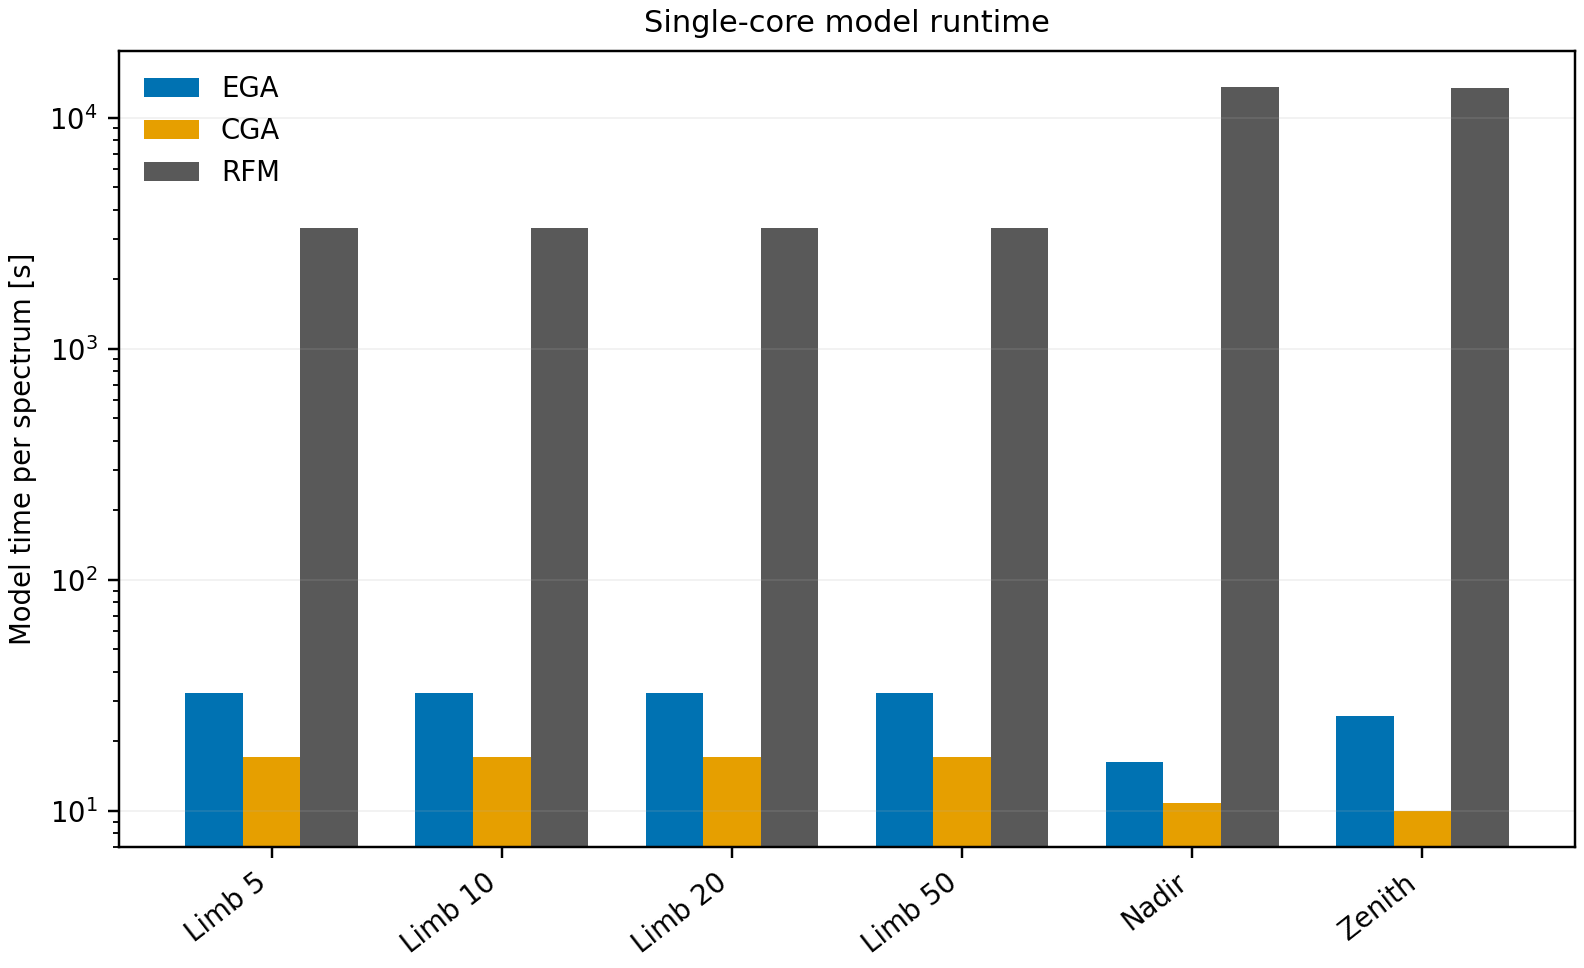
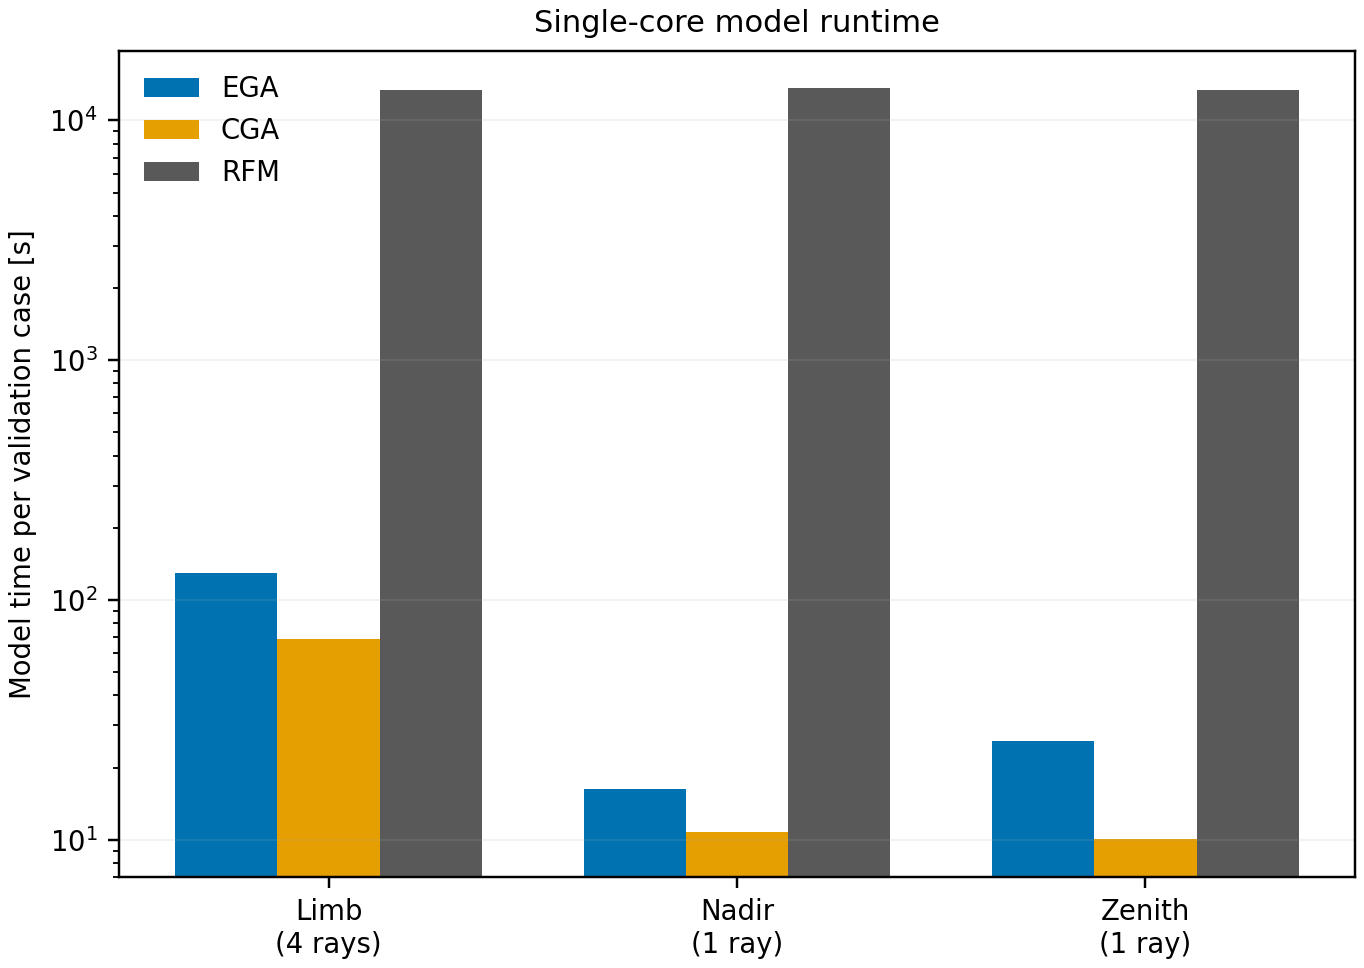
Document validation accuracy and timings.

diff --git a/projects/validation/analyze.py b/projects/validation/analyze.py
@@ -228,22 +228,23 @@ def plot_runtime_summary(root, output, plt):
                 timings[row["geometry"], method] = row
     with (root / "test_cga" / "timings.csv").open(newline="") as stream:
         cga_timings = {row["geometry"]: row for row in csv.DictReader(stream)}
-    cases = ("Limb 5", "Limb 10", "Limb 20", "Limb 50", "Nadir", "Zenith")
+    geometries = ("limb", "nadir", "zenith")
+    cases = ("Limb\n(4 rays)", "Nadir\n(1 ray)", "Zenith\n(1 ray)")
     x = list(range(len(cases)))
-    ega_time, cga_time, rfm_time = [], [], []
-    for index in x:
-        geometry = "limb" if index < 4 else cases[index].lower()
-        ega_time.append(float(timings[geometry, "ega"]["model_s_per_spectrum"]))
-        cga_time.append(float(cga_timings[geometry]["model_s_per_spectrum"]))
-        rfm_time.append(float(timings[geometry, "rfm"]["model_s_per_spectrum"]))
-    fig, ax = plt.subplots(figsize=(7.2, 4.4), constrained_layout=True)
+    ega_time = [float(timings[geometry, "ega"]["model_s"])
+                for geometry in geometries]
+    cga_time = [float(cga_timings[geometry]["model_s"])
+                for geometry in geometries]
+    rfm_time = [float(timings[geometry, "rfm"]["model_s"])
+                for geometry in geometries]
+    fig, ax = plt.subplots(figsize=(6.2, 4.4), constrained_layout=True)
     width = 0.25
     ax.bar([value - width for value in x], ega_time, width, label="EGA", color="#0072B2")
     ax.bar(x, cga_time, width, label="CGA", color="#E69F00")
     ax.bar([value + width for value in x], rfm_time, width, label="RFM", color="0.35")
     ax.set_yscale("log")
-    ax.set_xticks(x, cases, rotation=38, ha="right")
-    ax.set_ylabel("Model time per spectrum [s]")
+    ax.set_xticks(x, cases)
+    ax.set_ylabel("Model time per validation case [s]")
     ax.set_title("Single-core model runtime")
     ax.legend(frameon=False)
     ax.grid(axis="y", alpha=0.2, lw=0.5)
@@ -256,12 +257,16 @@ def write_report(root, metrics, output):
     with (root / "rfm_reference" / "manifest.json").open() as stream:
         manifest = json.load(stream)
 
+    hardware = manifest.get("hardware", {})
+    affinity = hardware.get("process_affinity_logical_cpus", [])
+    affinity_text = ", ".join(str(cpu) for cpu in affinity) if affinity else "not recorded"
+
     timings = {}
     for method, directory in (("EGA", "test_ega"), ("CGA", "test_cga"),
                               ("RFM", "rfm_reference")):
         with (root / directory / "timings.csv").open(newline="") as stream:
             for row in csv.DictReader(stream):
-                timings[row["geometry"], method] = float(row["model_s_per_spectrum"])
+                timings[row["geometry"], method] = float(row["model_s"])
 
     lines = [
         "# JURASSIC–RFM validation report",
@@ -285,6 +290,35 @@ def write_report(root, metrics, output):
         "JURASSIC. Limb errors are relative radiance errors. Nadir and zenith errors",
         "are absolute brightness temperature errors. All limb channels are included;",
         "only an exactly zero RFM radiance would have an undefined relative error.",
+        "",
+        "## Interpretation of the approximation errors",
+        "",
+        "JURASSIC replaces monochromatic radiative transfer by channel-averaged",
+        "emissivities and Planck functions. EGA follows emissivity growth along an",
+        "inhomogeneous ray path, whereas CGA replaces that path by an equivalent",
+        "homogeneous path. Both remain band approximations: correlations between the",
+        "spectral variation of the Planck function and emissivity along the path are",
+        "not represented exactly. In addition, JURASSIC combines the channel-mean",
+        "transmissions of individual gases multiplicatively. This neglects spectral",
+        "correlation terms between overlapping absorption structures of different",
+        "gases. These mechanisms are described for JURASSIC by",
+        "[Baumeister and Hoffmann (2022)](https://doi.org/10.5194/gmd-15-1855-2022).",
+        "",
+        "The largest errors below occur in individual channels and should be read",
+        "together with the median and 95th-percentile statistics. Published accuracies",
+        "are specific to their setup: Gordley and Russell (1981) reported about 0.5%",
+        "for a single-gas, approximately 100 cm^-1 broadband limb calculation, while",
+        "Francis et al. (2006) reported channel-dependent radiance accuracies of",
+        "0.5-1.0% or better for the 21-channel HIRDLS fast model, which combined CGA,",
+        "EGA, and statistical regression. Neither result is a universal bound for the",
+        "present 1 cm^-1, 36-gas calculation. Errors depend on spectral interval,",
+        "channel response, atmospheric state, gas overlap, and viewing geometry.",
+        "Consequently, each instrument or application requires its own line-by-line",
+        "validation with the applicable spectral response functions.",
+        "",
+        "References: [Gordley and Russell (1981)](https://doi.org/10.1364/AO.20.000807);",
+        "[Marshall et al. (1994)](https://doi.org/10.1016/0022-4073(94)90026-4);",
+        "[Francis et al. (2006)](https://doi.org/10.1029/2005JD006270).",
         "",
         "## Limb spectra and errors",
         "",
@@ -331,11 +365,21 @@ def write_report(root, metrics, output):
         "",
         "![Single-core model runtime](runtime_summary.png)",
         "",
+        "Reference timing hardware and execution:",
+        "",
+        f"- Processor: {hardware.get('cpu_model', 'not recorded')}",
+        f"- CPU topology: {hardware.get('physical_cores', 'unknown')} physical cores, "
+        f"{hardware.get('logical_cpus', 'unknown')} logical CPUs",
+        f"- Execution: {manifest.get('parallel_jobs', 'unknown')} concurrent single-thread "
+        f"processes restricted to logical CPUs {affinity_text}",
+        "",
         "The model times exclude validation input generation, plotting, and final output",
         "writing. JURASSIC time is `TIMER_FORMOD`. RFM time is its measured path plus",
-        "spectral phases minus measured output time. For limb, the four-ray calculation",
-        "is divided by four. Lookup-table reading and preparation are therefore not part",
-        "of the per-spectrum forward-model times shown here.",
+        "spectral phases minus measured output time. Times are totals for each validation",
+        "case: limb contains four jointly calculated rays, while nadir and zenith contain",
+        "one ray each. RFM shares spectral setup and HITRAN processing across the four",
+        "limb rays; this is one joint calculation rather than four independent runs.",
+        "Lookup-table reading and preparation are not included.",
         "",
         "| Geometry | EGA [s] | CGA [s] | RFM [s] | RFM/EGA | RFM/CGA |",
         "|:---|---:|---:|---:|---:|---:|",
@@ -344,7 +388,7 @@ def write_report(root, metrics, output):
         ega = timings[geometry, "EGA"]
         cga = timings[geometry, "CGA"]
         rfm = timings[geometry, "RFM"]
-        label = "Limb (per ray)" if geometry == "limb" else geometry.capitalize()
+        label = "Limb (4 rays)" if geometry == "limb" else f"{geometry.capitalize()} (1 ray)"
         lines.append(f"| {label} | {ega:.2f} | {cga:.2f} | {rfm:.2f} | "
                      f"{rfm / ega:.0f}× | {rfm / cga:.0f}× |")
 

diff --git a/projects/validation/common.py b/projects/validation/common.py
@@ -40,6 +40,34 @@ TIMER_NAMES = ("READ_CTL", "READ_TBL", "READ_TASK", "READ_DIRLIST",
                "WRITE_OBS", "FINALIZE")
 
 
+def hardware_metadata():
+    """Record CPU identity and the logical CPUs available to this run."""
+    cpu_model = "unknown"
+    physical_cores = set()
+    current_physical = None
+    current_core = None
+    cpuinfo = Path("/proc/cpuinfo")
+    if cpuinfo.is_file():
+        for line in [*cpuinfo.read_text().splitlines(), ""]:
+            if line.startswith("model name") and cpu_model == "unknown":
+                cpu_model = line.split(":", 1)[1].strip()
+            elif line.startswith("physical id"):
+                current_physical = line.split(":", 1)[1].strip()
+            elif line.startswith("core id"):
+                current_core = line.split(":", 1)[1].strip()
+            elif not line.strip():
+                if current_physical is not None and current_core is not None:
+                    physical_cores.add((current_physical, current_core))
+                current_physical = current_core = None
+    affinity = sorted(os.sched_getaffinity(0)) if hasattr(os, "sched_getaffinity") else []
+    return {
+        "cpu_model": cpu_model,
+        "physical_cores": len(physical_cores) or None,
+        "logical_cpus": os.cpu_count(),
+        "process_affinity_logical_cpus": affinity,
+    }
+
+
 def sha256(path):
     """Return the SHA-256 digest of a potentially large external input."""
     digest = hashlib.sha256()
@@ -228,6 +256,7 @@ def main():
         "rfm_binary_sha256": sha256(rfm_bin) if rfm_bin else None,
         "rfm_source_timers_required": args.require_rfm_timers,
         "omp_num_threads": env["OMP_NUM_THREADS"],
+        "hardware": hardware_metadata(),
         "timing_definition": "sum of per-chunk formod wall and named timer sections; excludes input generation and plots; chunks may run concurrently",
         "model_time_definition": {"jurassic": "sum of TIMER_FORMOD across chunks",
                                   "rfm": "sum of RFM PATH + SPECTRAL - OUTPUT across spectral-block invocations and chunks",

diff --git a/projects/validation/analysis/REPORT.md b/projects/validation/analysis/REPORT.md
@@ -20,6 +20,35 @@ JURASSIC. Limb errors are relative radiance errors. Nadir and zenith errors
 are absolute brightness temperature errors. All limb channels are included;
 only an exactly zero RFM radiance would have an undefined relative error.
 
+## Interpretation of the approximation errors
+
+JURASSIC replaces monochromatic radiative transfer by channel-averaged
+emissivities and Planck functions. EGA follows emissivity growth along an
+inhomogeneous ray path, whereas CGA replaces that path by an equivalent
+homogeneous path. Both remain band approximations: correlations between the
+spectral variation of the Planck function and emissivity along the path are
+not represented exactly. In addition, JURASSIC combines the channel-mean
+transmissions of individual gases multiplicatively. This neglects spectral
+correlation terms between overlapping absorption structures of different
+gases. These mechanisms are described for JURASSIC by
+[Baumeister and Hoffmann (2022)](https://doi.org/10.5194/gmd-15-1855-2022).
+
+The largest errors below occur in individual channels and should be read
+together with the median and 95th-percentile statistics. Published accuracies
+are specific to their setup: Gordley and Russell (1981) reported about 0.5%
+for a single-gas, approximately 100 cm^-1 broadband limb calculation, while
+Francis et al. (2006) reported channel-dependent radiance accuracies of
+0.5-1.0% or better for the 21-channel HIRDLS fast model, which combined CGA,
+EGA, and statistical regression. Neither result is a universal bound for the
+present 1 cm^-1, 36-gas calculation. Errors depend on spectral interval,
+channel response, atmospheric state, gas overlap, and viewing geometry.
+Consequently, each instrument or application requires its own line-by-line
+validation with the applicable spectral response functions.
+
+References: [Gordley and Russell (1981)](https://doi.org/10.1364/AO.20.000807);
+[Marshall et al. (1994)](https://doi.org/10.1016/0022-4073(94)90026-4);
+[Francis et al. (2006)](https://doi.org/10.1029/2005JD006270).
+
 ## Limb spectra and errors
 
 ![Limb radiance spectra](limb_radiance_spectra.png)
@@ -62,17 +91,25 @@ only an exactly zero RFM radiance would have an undefined relative error.
 
 ![Single-core model runtime](runtime_summary.png)
 
+Reference timing hardware and execution:
+
+- Processor: 13th Gen Intel(R) Core(TM) i7-1365U
+- CPU topology: 10 physical cores, 12 logical CPUs
+- Execution: 2 concurrent single-thread processes restricted to logical CPUs 0, 2
+
 The model times exclude validation input generation, plotting, and final output
 writing. JURASSIC time is `TIMER_FORMOD`. RFM time is its measured path plus
-spectral phases minus measured output time. For limb, the four-ray calculation
-is divided by four. Lookup-table reading and preparation are therefore not part
-of the per-spectrum forward-model times shown here.
+spectral phases minus measured output time. Times are totals for each validation
+case: limb contains four jointly calculated rays, while nadir and zenith contain
+one ray each. RFM shares spectral setup and HITRAN processing across the four
+limb rays; this is one joint calculation rather than four independent runs.
+Lookup-table reading and preparation are not included.
 
 | Geometry | EGA [s] | CGA [s] | RFM [s] | RFM/EGA | RFM/CGA |
 |:---|---:|---:|---:|---:|---:|
-| Limb (per ray) | 32.45 | 17.11 | 3352.47 | 103× | 196× |
-| Nadir | 16.27 | 10.79 | 13647.73 | 839× | 1265× |
-| Zenith | 25.86 | 10.03 | 13412.67 | 519× | 1338× |
+| Limb (4 rays) | 129.80 | 68.45 | 13409.89 | 103× | 196× |
+| Nadir (1 ray) | 16.27 | 10.79 | 13647.73 | 839× | 1265× |
+| Zenith (1 ray) | 25.86 | 10.03 | 13412.67 | 519× | 1338× |
 
 These timings describe this recorded run and machine; they are not portable
 performance guarantees. Accuracy statistics are computed from the complete

diff --git a/projects/validation/README.md b/projects/validation/README.md
@@ -50,6 +50,30 @@ kelvin. Accuracy and runtime summaries are separate figures. `analysis/REPORT.md
 embeds all figures and tabulates the principal accuracy and timing results for
 review.
 
+## Interpreting approximation errors
+
+EGA follows the growth of channel-mean emissivity along an inhomogeneous ray,
+while CGA represents the path by equivalent homogeneous conditions. Both are
+band approximations. They do not exactly retain correlations between the
+spectral variation of the Planck function and emissivity along the path.
+Combining the mean transmissions of individual gases also neglects correlations
+between overlapping gas absorption structures within a channel. The method and
+these residual correlation terms are described by
+[Baumeister and Hoffmann (2022)](https://doi.org/10.5194/gmd-15-1855-2022).
+
+Errors therefore depend on the spectral interval, instrument response,
+atmospheric state, gas overlap, and viewing geometry. Published results for
+other configurations are useful context rather than general error bounds.
+Gordley and Russell (1981) reported about 0.5% for a single-gas broadband limb
+case, and Francis et al. (2006) reported channel-dependent radiance accuracies
+of 0.5-1.0% or better for the HIRDLS fast model, which combined CGA, EGA, and
+statistical regression. Each instrument or application must be validated
+against line-by-line calculations using its own spectral response functions.
+
+References: [Gordley and Russell (1981)](https://doi.org/10.1364/AO.20.000807),
+[Marshall et al. (1994)](https://doi.org/10.1016/0022-4073(94)90026-4), and
+[Francis et al. (2006)](https://doi.org/10.1029/2005JD006270).
+
 ## Repeat the calculations
 
 Build the CPU executables with capacity for all 36 gases:
@@ -104,10 +128,20 @@ started 20 times per geometry.
 
 `timings.csv` records the summed single-process times across spectral chunks.
 JURASSIC model time is `TIMER_FORMOD`. Instrumented RFM model time is the
-reported path plus spectral phases minus output time. For limb, the reported
-per-spectrum time is the four-ray calculation divided by four. Parallel jobs
-reduce elapsed execution time but do not alter these summed single-process
+reported path plus spectral phases minus output time. The main report uses
+the total model time for each validation case: limb contains four jointly
+calculated rays, while nadir and zenith contain one ray each. A limb RFM
+invocation shares its spectral setup and HITRAN processing across all four rays,
+so its total time is not the cost of four independent RFM runs. The CSV file
+also records the resulting amortized throughput time per spectrum. Parallel
+jobs reduce elapsed execution time but do not alter these summed single-process
 model times.
+
+Each result manifest records the CPU model, physical and logical CPU counts,
+and the logical CPUs made available to the model processes. The supplied
+reference timings were measured on a 13th Gen Intel Core i7-1365U with 10
+physical cores and 12 logical CPUs. Two single-thread processes ran
+concurrently, restricted to logical CPUs 0 and 2.
 
 `READ_TBL` includes reading and preparing the lookup tables. RFM timing keeps
 its HITRAN initialization and binary-read measurements separately. Hardware,
